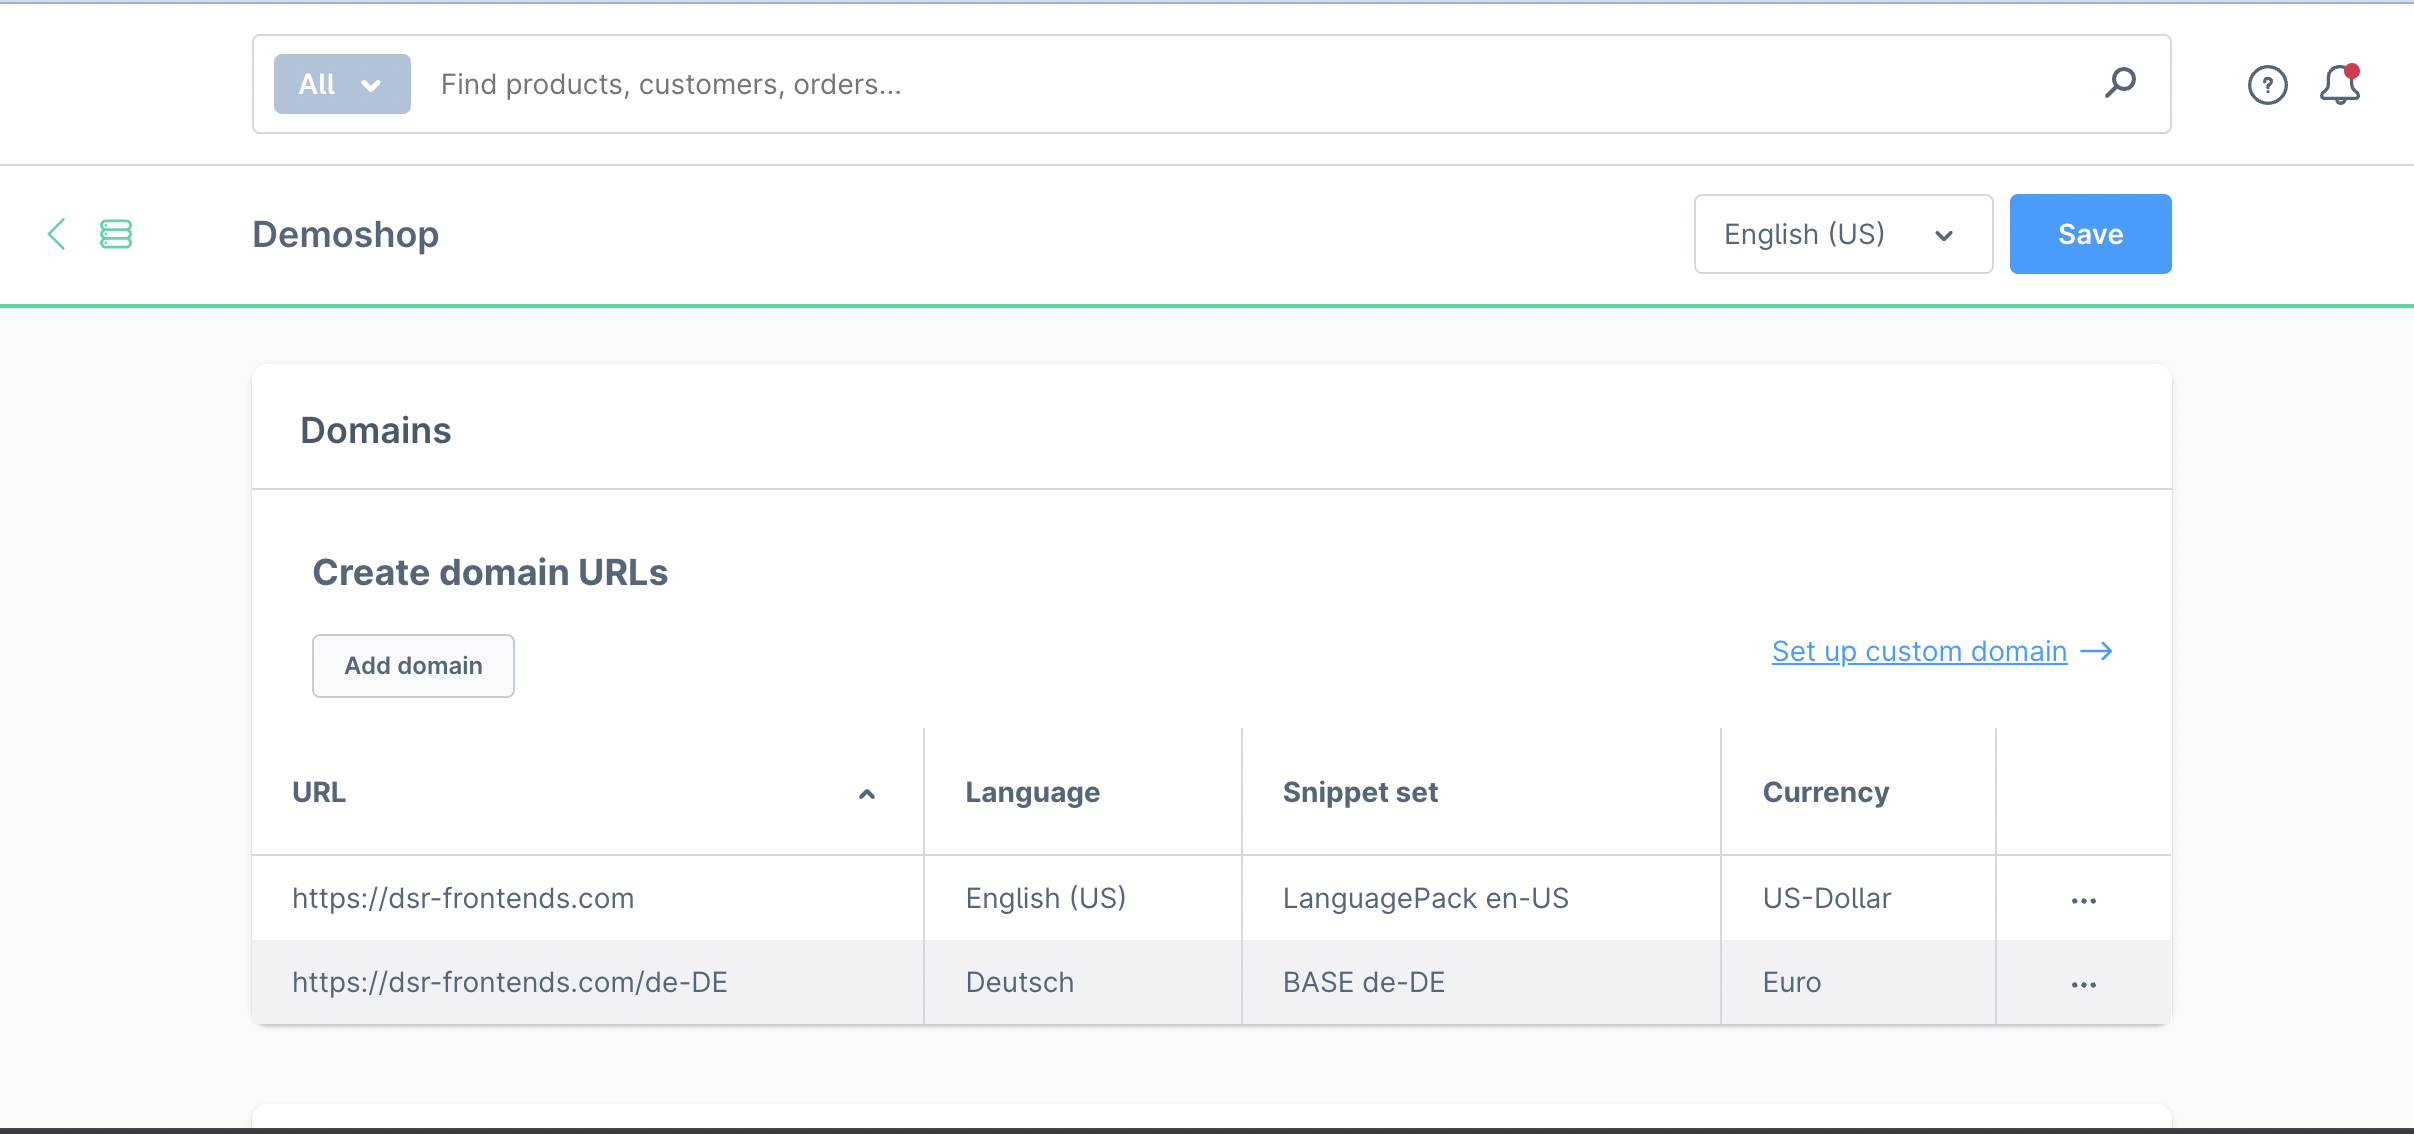
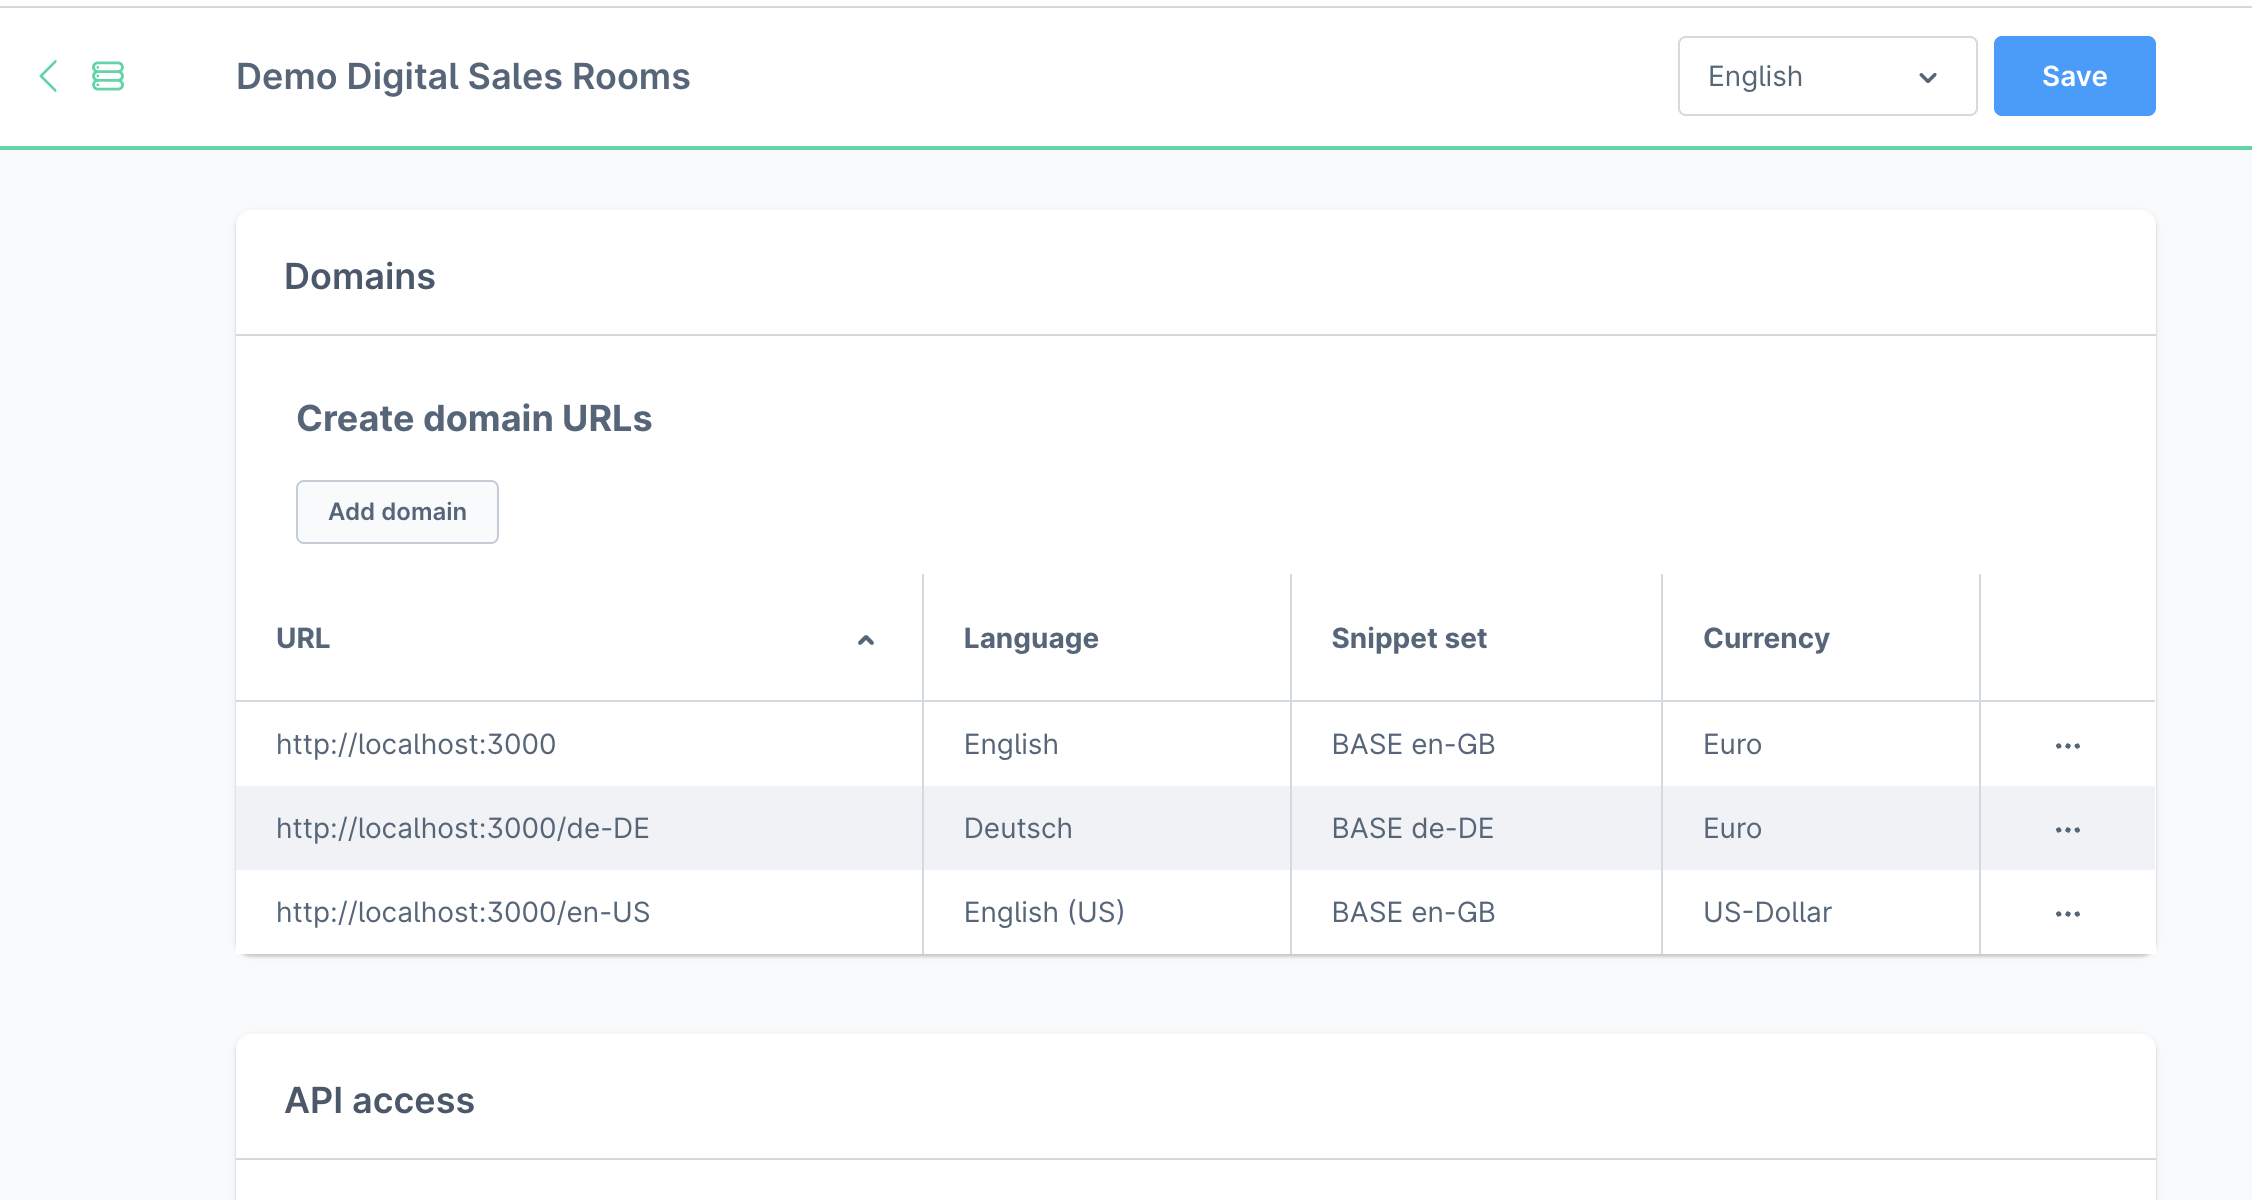
update DSR doc for v4

diff --git a/products/digital-sales-rooms/setup-3rd-party/realtime-service-mercure.md b/products/digital-sales-rooms/setup-3rd-party/realtime-service-mercure.md
@@ -12,23 +12,11 @@ Symfony provides a straightforward component, built on top of the [Mercure](http
 [Mercure](https://mercure.rocks/docs/getting-started) is an open protocol designed from the ground up to publish updates from server to client. It is a modern and efficient alternative to timer-based polling and to WebSocket.
 :::
 
-## Mercure general settings
-Detailed below is the minimum configuration needed for a working stack apart from project-specific CMS configurations.
-- *Set up CORS allowed origins* - In our case, it would be the domain where the Shopware Frontends is hosted and available. For instance: https://dsr-frontends.com (frontend).
-- *Set up publish allowed origins* - The domains that request the Mercure service must be added to publish allowed origins or else it gets rejected. For instance (HTTP protocol must not be included): shopware-pwa-gs.herokuapp.com (frontend) and pwa-demo-api.shopware.com(backend - API).
-- *Set up the publisher (JWT) key* - Set whatever you want.
-- *Set up the subscriber (JWT) key* - Set whatever you want.
-
-There are 4 main pieces of information from Mercure Hub you have to get:
-- *Hub url* - The hub URL.
-- *Hub public url* - The hub public URL, normally it's the same as the hub URL.
-- *Hub subscriber secret* - The JWT key used for authenticating subscribers
-- *Hub publisher secret* - The JWT key used for authenticating publishers
-
-## Setup
+## Setup hub
 There are different ways to set up Mercure as listed below:
 
 ### Setup via Stackhero (Recommended)
+
 ::: info
 💡 We tested the service provided by [StackHero](https://www.stackhero.io/en/services/Mercure-Hub/pricing). Depending on the expected traffic, you can easily switch between the plans. For a small demo among a few people at the same time, the “Hobby” plan is sufficient.
 :::
@@ -37,7 +25,7 @@ There are different ways to set up Mercure as listed below:
 - Access the dashboard.
 - In the **Stacks** menu item, create a new stack with the **Mercure Hub** service.
 - When creating a stack successfully, tap into the Configure button.
-- On this page, it's easy to find the [Mercure general settings](#mercure-general-settings), copy all the necessary information, and paste it into [the proper inputs of the configuration page](../configuration/plugin-config.md#realtime-service).
+- On this page, it's easy to find the [Mercure general settings](#attach-mercure-information-into-digital-sales-rooms), copy all the necessary information, and paste it into [the proper inputs of the configuration page](../configuration/plugin-config.md#realtime-service).
 
 ![Mercure configuration](../../../assets/products-digitalSalesRooms-mercureConfig.png)
 
@@ -107,3 +95,21 @@ ui 0
 ...
 }
 ```
+
+## Config Mercure hub
+
+After init mercure hub, let's make it more secure with your information:
+- *Set up CORS allowed origins* - In our case, it would be the domain where the Shopware Frontends is hosted and available. For instance: `http://localhost:3000` (frontend domain).
+- *Set up publish allowed origins* - The domains that request the Mercure service must be added to publish allowed origins or else it gets rejected. For instance (HTTP protocol must not be included): `http://localhost:3000`  (frontend domain) and `http://localhost:8000` (backend API domain).
+- *Set up the publisher (JWT) key* - Set whatever you want.
+- *Set up the subscriber (JWT) key* - Set whatever you want.
+
+## Attach Mercure information into Digital Sales Rooms
+
+From your Mercure hub, it's easy to get the proper information:
+- *Hub url* - The hub URL.
+- *Hub public url* - The hub public URL, normally it's the same as the hub URL.
+- *Hub subscriber secret* - The JWT key used for authenticating subscribers
+- *Hub publisher secret* - The JWT key used for authenticating publishers
+
+Then, fill them in [Configuration Page - Realtime service](../configuration/plugin-config.md#realtime-service)

diff --git a/products/digital-sales-rooms/configuration/domain-config.md b/products/digital-sales-rooms/configuration/domain-config.md
@@ -5,17 +5,31 @@ nav:
 
 ---
 
+::: warning
+Based on the business use case, the merchant can decide to add *Digital Sales Rooms* to their existing sales channel or new sales channel.
+When you run the frontend app server (in both development or production), you will always have a specific domain (eg: `http://localhost:3000`)
+:::
+
 # Domain Configuration for frontend app
 
-When you run the frontend app server (in both development or production), you will always have a specific domain (eg: `https://dsr-frontends.com`). This section will show you how to add this domain to sales channel.
+This section will show you how to add these domains to sales channel.
 
-## Setup sales channel for Digital Sales Rooms
-- Based on the business use case, the merchant can decide to add *Digital Sales Rooms* to their existing sales channel or new sales channel.
-- After specifying the sales channel, head to the *Domains section* and add appropriate *Digital Sales Rooms* domains with  appropriate languages. *Digital Sales Rooms* can switch languages by the path, so ensure to add the domains with the format below.
+## Setup domains for Digital Sales Rooms
+
+::: warning
+Please redeploy or rerun your frontend app to apply the domains changes into it.
+:::
+
+- After specifying the sales channel, head to the *Domains section* and add appropriate *Digital Sales Rooms* domains with  appropriate languages. *Digital Sales Rooms* can switch languages by the path, you can choose your domain path represents for a language. Here is our recommendation:
+
 ```
-dsr-frontends.com - English
-dsr-frontends.com/de-DE - Deutsch
+http://localhost:3000 - English
+http://localhost:3000/de-DE - Deutsch
+http://localhost:3000/en-US - English (US)
 ```
+
 ![ ](../../../assets/setup-domain-for-sales-channel-DSR.png)
 
-The *Digital Sales Rooms* domain (eg: `https://dsr-frontends.com`) should be selected as *Default appointment domain* in [Configuration Page - Appointments](./plugin-config.md#appointments)
+- These *Digital Sales Rooms* domains should be selected as *Available domains* in [Configuration Page - Appointments](./plugin-config.md#appointments)
+
+![ ](../../../assets/fill-domain-into-configuration.png)

diff --git a/products/digital-sales-rooms/installation/app-installation.md b/products/digital-sales-rooms/installation/app-installation.md
@@ -1,0 +1,74 @@
+---
+nav:
+   title: Frontend app installation
+   position: 30
+
+---
+
+# Frontend App Installation
+
+::: warning
+This template is built based on the Shopware Frontends framework, so it inherits from Shopware Frontends & Nuxt 3 concepts.
+:::
+
+## Init environment
+
+- Install pnpm with global scope
+```
+npm install -g pnpm
+```
+
+- From the Shopware root folder `<shopware-root-dir>`, go to the folder of *Digital Sales Rooms* templates.
+```
+cd ./custom/plugins/SwagDigitalSalesRooms/templates/dsr-frontends
+```
+
+## Generate env file
+
+- Assume Shopware platform is running at `http://localhost:8000` & frontend app will run in `http://localhost:3000`.
+
+```
+cp .env.template .env
+```
+**NUXT_PUBLIC_SHOPWARE_DEV_STOREFRONT_URL**: This is current frontend app domain. E.g: `http://localhost:3000`
+
+**NUXT_PUBLIC_SHOPWARE_INSTANCE_URL**: This is default Shopware storefront domain. E.g: `http://localhost:8000`
+
+**NUXT_PUBLIC_SHOPWARE_ADMIN_API**: This is Shopware admin-api domain server. E.g: `http://localhost:8000/admin-api`
+
+**NUXT_PUBLIC_SHOPWARE_ENDPOINT**: This is the Shopware store-api domain server. E.g: `http://localhost:8000/store-api`
+
+**NUXT_PUBLIC_SHOPWARE_ACCESS_TOKEN**: This is the Shopware Access Token to connect to Shopware API. Head to sales channel you assign the *Digital Sales Rooms* domain, find the `API access` section, and copy the `API access key`.
+
+**NUXT_PUBLIC_ALLOW_ANONYMOUS_MERCURE**: This is the flag for development only. When the value = 1, it means your app is running with unsecured Mercure.
+
+## Run frontend App
+
+For development, you can run the dev server by the following commands:
+
+- Install dependencies
+```
+pnpm install
+```
+
+- Run dev server
+```
+pnpm dev
+```
+Usually, port `3000` is the default port so that you can access the domain of the Frontend App `http://localhost:3000/`
+
+# Build frontend App
+
+For production, you can build code by the following commands:
+
+- Install dependencies
+```
+pnpm install
+```
+
+- Build
+```
+pnpm build
+```
+
+Following section guides you on 3rd parties setup procedure.

diff --git a/products/digital-sales-rooms/configuration/plugin-config.md b/products/digital-sales-rooms/configuration/plugin-config.md
@@ -19,7 +19,7 @@ Open Shopware CMS, select **Marketing** > **Digital Sales Rooms** > **Configurat
 
 ### Appointments
 
-- *Default appointment domain* - This select box shows the list of domains of all sales channel. You should choose the *Digital Sales Rooms* domain from [this section](./domain-config.md)
+- *Available domains* - This select box shows the list of domains of all sales channel. You should choose the *Digital Sales Rooms* domains from [this section](./domain-config.md)
 
 ### Video and Audio
 
@@ -28,7 +28,7 @@ Open Shopware CMS, select **Marketing** > **Digital Sales Rooms** > **Configurat
 
 ### Realtime service
 
-- *Hub url* - get the value from [this section](../setup-3rd-party/realtime-service-mercure.md#setup-via-stackhero-recommended)
-- *Hub public url* - get the value from [this section](../setup-3rd-party/realtime-service-mercure.md#setup-via-stackhero-recommended)
-- *Hub subscriber secret* - get the value from [this section](../setup-3rd-party/realtime-service-mercure.md#setup-via-stackhero-recommended)
-- *Hub publisher secret* - get the value from [this section](../setup-3rd-party/realtime-service-mercure.md#setup-via-stackhero-recommended)
+- *Hub url* - get the value from [this section](../setup-3rd-party/realtime-service-mercure.md#attach-mercure-information-into-digital-sales-rooms)
+- *Hub public url* - get the value from [this section](../setup-3rd-party/realtime-service-mercure.md#attach-mercure-information-into-digital-sales-rooms)
+- *Hub subscriber secret* - get the value from [this section](../setup-3rd-party/realtime-service-mercure.md#attach-mercure-information-into-digital-sales-rooms)
+- *Hub publisher secret* - get the value from [this section](../setup-3rd-party/realtime-service-mercure.md#attach-mercure-information-into-digital-sales-rooms)

diff --git a/products/digital-sales-rooms/installation/admin-side-installation.md b/products/digital-sales-rooms/installation/admin-side-installation.md
@@ -13,7 +13,7 @@ Digital Sales Rooms plugin is a licensed plugin. If you already know how to inst
 
 ::: warning
 As part of the Shopware Beyond plan, the Digital Sales Rooms is available to you as an extension.
-Same with other plugins, you have multiple ways to fetch the plugin via composer, direct download or through your Shopware Account.
+Same with other plugins, you have multiple ways to install the plugin via composer, direct download or through your Shopware Account.
 :::
 
 In this part, we will learn how to get and install the *Digital Sales Rooms* plugin into local Shopware instance.
@@ -23,6 +23,7 @@ In this part, we will learn how to get and install the *Digital Sales Rooms* plu
 If you are a merchant with Shopware Beyond, you can access account.shopware.com and create a wildcard environment with attached plugins. Refer to [guideline](https://docs.shopware.com/en/account-en/extension-partner/wildcard-environments) for more info.
 
 ![ ](../../../assets/products-digitalSalesRooms-wildcard.png)
+
 By this way, you can get the plugin quickly into Shopware instance via multiple ways (via composer, direct download or through your Shopware Account).
 
 ### Via download
@@ -41,7 +42,7 @@ To install a plugin via composer, follow these steps:
 - From wildcard environment detail page, click on the plugin and then click on the "Install via composer" button.
 - A modal will appear and contain all command lines to install.
 
-## Activate the plugin in Admin Extension
+## Install & activate the plugin
 
 Once you fetched the plugin, you can run the below Symfony commands for activate plugin:
 

diff --git a/products/digital-sales-rooms/index.md b/products/digital-sales-rooms/index.md
@@ -21,6 +21,8 @@ You can create interactive live video events for your customers straight from yo
 *Digital Sales Rooms* application does not belong to *the default Storefront*. It's a standalone Frontend app running with Nuxt instance. This template will be hosted in a separate instance with a new domain, which will be different from the Storefront domain.
 :::
 
+To use the Digital Sales Rooms plugin, you must perform **installation** & **3rd parties setup** & **plugin configuration**.
+
 ## Prerequisites
 
 Review the below minimum operating requirements before you install the *Digital Sales Rooms* feature:
@@ -33,4 +35,5 @@ Review the below minimum operating requirements before you install the *Digital 
   * [Daily.co](https://daily.co/) - Refer to setup instructions for [realtime video call](./setup-3rd-party/realtime-video-dailyco.md)
   * [Mercure](https://mercure.rocks/)- Refer to setup instructions for [realtime Mercure service](./setup-3rd-party/realtime-service-mercure.md)
   
+
 Following section guides you on the installation procedure.

diff --git a/products/digital-sales-rooms/best-practices/app-deployment/cloudflare.md b/products/digital-sales-rooms/best-practices/app-deployment/cloudflare.md
@@ -30,7 +30,7 @@ strict-peer-dependencies=false
 pnpm install wrangler --save-dev
 ```
 
-- Make sure the Frontend app has already [generated .env file](../local-installation/app-installation.md#generate-env-file)
+- Make sure the Frontend app has already [generated .env file](../../installation/app-installation.md#generate-env-file)
 
 - Build your project for Cloudflare Pages:
 
@@ -123,4 +123,4 @@ When deploying your Pages project, you may wish to point custom domains (or subd
 
 ## Configure sales channel domain
 
-Your website is ready, you should have a frontend app domain. Please use the current domain to configure [sales channel domain](../configuration/domain-config.md).
+Your website is ready, you should have a frontend app domain. Please use the current domain to configure [sales channel domain](../../configuration/domain-config.md).

diff --git a/products/digital-sales-rooms/best-practices/saas/index.md b/products/digital-sales-rooms/best-practices/saas/index.md
@@ -1,7 +1,7 @@
 ---
 nav:
   title: SaaS
-  position: 50
+  position: 20
 
 ---
 
@@ -12,6 +12,6 @@ However, there are some steps that need to be completed to ensure the DSR functi
 
 - [Deploy the frontend app](../app-deployment/index.md)
 
-- [3rd parties](../setup-3rd-party/index.md)
+- [3rd parties](../../setup-3rd-party/index.md)
 
-- [Configuration](../configuration/index.md)
+- [Configuration](../../configuration/index.md)

diff --git a/products/digital-sales-rooms/installation/index.md b/products/digital-sales-rooms/installation/index.md
@@ -1,0 +1,14 @@
+---
+nav:
+  title: Installation
+  position: 10
+
+---
+
+# Digital Sales Rooms Installation
+
+::: warning
+This section will show how to install *Digital Sales Rooms* plugin into the existing Shopware platform. It will not introduce how to install Shopware platform.
+:::
+
+This includes installation at admin and at template. Following sections gives you a detailed procedure of installation.

diff --git a/products/digital-sales-rooms/best-practices/app-deployment/index.md b/products/digital-sales-rooms/best-practices/app-deployment/index.md
@@ -1,7 +1,7 @@
 ---
 nav:
   title: Frontend App Deployment
-  position: 40
+  position: 10
 
 ---
 

diff --git a/products/digital-sales-rooms/best-practices/index.md b/products/digital-sales-rooms/best-practices/index.md
@@ -1,0 +1,6 @@
+---
+nav:
+  title: Best practices
+  position: 40
+
+---
